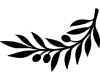
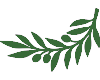
added color to branches and links - swapped gallery and villa oliva main info

Changed region(s): [[0.0, 0.1, 1.0, 0.9]]

diff --git a/index.html b/index.html
@@ -6,10 +6,11 @@
     <meta name="viewport" content="width=device-width, initial-scale=1.0">
     <link rel="stylesheet" href="https://maxcdn.bootstrapcdn.com/bootstrap/4.0.0/css/bootstrap.min.css"
         integrity="sha384-Gn5384xqQ1aoWXA+058RXPxPg6fy4IWvTNh0E263XmFcJlSAwiGgFAW/dAiS6JXm" crossorigin="anonymous">
-    <link rel="stylesheet" href="style.css">
+
     <link rel="stylesheet" href="https://cdnjs.cloudflare.com/ajax/libs/font-awesome/5.15.1/css/all.min.css"
         integrity="sha512-+4zCK9k+qNFUR5X+cKL9EIR+ZOhtIloNl9GIKS57V1MyNsYpYcUrUeQc9vNfzsWfV28IaLL3i96P9sdNyeRssA=="
         crossorigin="anonymous" />
+    <link rel="stylesheet" href="style.css">
     <title>Villa Oliva</title>
 </head>
 
@@ -29,7 +30,7 @@
     <!--Navigation bar containing logo and nav links. The bar is sticky and will be fixed to top when scrolling -->
 
     <nav class="navbar sticky-top navbar-expand-md navbar-light bg-light">
-        <a class="navbar-brand" href="#"><img src="assets/logo/villaoliva_logo_small.png" id="logo-image"
+        <a class="navbar-brand" href="#villa_oliva"><img src="assets/logo/villaoliva_logo_small.png" id="logo-image"
                 alt="villa oliva logo"></a>
         <button class="navbar-toggler" type="button" data-toggle="collapse" data-target="#navbartoggler">
             <span class="navbar-toggler-icon"></span>
@@ -37,7 +38,7 @@
 
         <div class="collapse navbar-collapse" id="navbartoggler">
             <ul class="navbar-nav ml-auto">
-                <li class="nav-item"><a class="nav-link" href="#villa_oliva">Villa Oliva</a></li>
+                <li class="nav-item"><a class="nav-link" href="#gallery">Gallery</a></li>
                 <li class="nav-item"><a class="nav-link" href="#amenities">Amenities</a></li>
                 <li class="nav-item"><a class="nav-link" href="#location">Location</a></li>
                 <li class="nav-item"><a class="nav-link" href="#book_now">Book Now!</a></li>
@@ -46,43 +47,6 @@
         </div>
     </nav>
 
-
-    <!-- GALLERY    - Gallery section containing carousel of images with an option to open modal to full gallery -->
-
-    <section class="container">
-        <h1><span class="h1-left">
-                <img src="assets/img/olive-branch-left.png" alt="">
-            </span>Gallery<span class="h1-right">
-                <img src="assets/img/olive-branch-right.png" alt="">
-            </span></h1>
-        <hr>
-
-
-        <!-- Carousel containing images of Villa Oliva -->
-        <div class="carousel-container">
-            <div id="gallerycontrols" class="carousel slide" data-ride="carousel" data-interval="5000">
-                <div class="carousel-inner">
-                    <div class="carousel-item active">
-                        <img class="d-block w-100" src="assets/img/vo_iron_gate.jpg" alt="First slide">
-                    </div>
-                    <div class="carousel-item">
-                        <img class="d-block w-100" src="assets/img/vo_terrace_downstairs.jpg" alt="Second slide">
-                    </div>
-                    <div class="carousel-item">
-                        <img class="d-block w-100" src="assets/img/vo_living_room1.jpg" alt="Third slide">
-                    </div>
-                </div>
-                <a class="carousel-control-prev" href="#gallerycontrols" role="button" data-slide="prev">
-                    <span class="carousel-control-prev-icon" aria-hidden="true"></span>
-                    <span class="sr-only">Previous</span>
-                </a>
-                <a class="carousel-control-next" href="#gallerycontrols" role="button" data-slide="next">
-                    <span class="carousel-control-next-icon" aria-hidden="true"></span>
-                    <span class="sr-only">Next</span>
-                </a>
-            </div>
-        </div>
-    </section>
 
     <!-- VILLA OLIVA    - Information about Villa Oliva / About the house / history / house rules / etc -->
 
@@ -192,6 +156,46 @@
         </div>
         </div>
     </section>
+
+
+
+    <!-- GALLERY    - Gallery section containing carousel of images with an option to open modal to full gallery -->
+
+    <section class="container" id="gallery">
+        <h1><span class="h1-left">
+                <img src="assets/img/olive-branch-left.png" alt="">
+            </span>Gallery<span class="h1-right">
+                <img src="assets/img/olive-branch-right.png" alt="">
+            </span></h1>
+        <hr>
+
+
+        <!-- Carousel containing images of Villa Oliva -->
+        <div class="carousel-container">
+            <div id="gallerycontrols" class="carousel slide" data-ride="carousel" data-interval="5000">
+                <div class="carousel-inner">
+                    <div class="carousel-item active">
+                        <img class="d-block w-100" src="assets/img/vo_iron_gate.jpg" alt="First slide">
+                    </div>
+                    <div class="carousel-item">
+                        <img class="d-block w-100" src="assets/img/vo_terrace_downstairs.jpg" alt="Second slide">
+                    </div>
+                    <div class="carousel-item">
+                        <img class="d-block w-100" src="assets/img/vo_living_room1.jpg" alt="Third slide">
+                    </div>
+                </div>
+                <a class="carousel-control-prev" href="#gallerycontrols" role="button" data-slide="prev">
+                    <span class="carousel-control-prev-icon" aria-hidden="true"></span>
+                    <span class="sr-only">Previous</span>
+                </a>
+                <a class="carousel-control-next" href="#gallerycontrols" role="button" data-slide="next">
+                    <span class="carousel-control-next-icon" aria-hidden="true"></span>
+                    <span class="sr-only">Next</span>
+                </a>
+            </div>
+        </div>
+    </section>
+
 
     <!-- AMENITIES   - Information about amenities available to guests -->
 
@@ -356,24 +360,23 @@
                 <hr>
             </div>
         </div>
-            <div class="row">
-                <div class="col-12 col-md-8 col-lg-6">
-                    <div class="google-map">
+        <div class="row">
+            <div class="col-12 col-md-8 col-lg-6">
+                <div class="google-map">
 
-                        <iframe
-                            src="https://calendar.google.com/calendar/embed?height=600&amp;wkst=2&amp;bgcolor=%23ffffff&amp;ctz=Europe%2FDublin&amp;src=N2N0dGNxNjd1cm9mYjlwNzV0ajVnamJpMXNAZ3JvdXAuY2FsZW5kYXIuZ29vZ2xlLmNvbQ&amp;src=ZW4uY3JvYXRpYW4jaG9saWRheUBncm91cC52LmNhbGVuZGFyLmdvb2dsZS5jb20&amp;color=%23EF6C00&amp;color=%230B8043&amp;showTitle=0&amp;showPrint=0&amp;showCalendars=0&amp;showTz=0"
-                            style="border:solid 1px #777" width="800" height="600" frameborder="0"
-                            scrolling="no"></iframe>
-                    </div>
-                </div>
-                <div class="col-12 col-md-4 col-lg-6">
-                    <div class="jumbotron">
-                        <h2>Check availability</h2>
-                        <p>If your dates are available then...</p>
-                        <button class="btn btn-lg btn-warning">Book Now!</button>
-                    </div>
+                    <iframe
+                        src="https://calendar.google.com/calendar/embed?height=600&amp;wkst=2&amp;bgcolor=%23ffffff&amp;ctz=Europe%2FDublin&amp;src=N2N0dGNxNjd1cm9mYjlwNzV0ajVnamJpMXNAZ3JvdXAuY2FsZW5kYXIuZ29vZ2xlLmNvbQ&amp;src=ZW4uY3JvYXRpYW4jaG9saWRheUBncm91cC52LmNhbGVuZGFyLmdvb2dsZS5jb20&amp;color=%23EF6C00&amp;color=%230B8043&amp;showTitle=0&amp;showPrint=0&amp;showCalendars=0&amp;showTz=0"
+                        style="border:solid 1px #777" width="800" height="600" frameborder="0" scrolling="no"></iframe>
                 </div>
             </div>
+            <div class="col-12 col-md-4 col-lg-6">
+                <div class="jumbotron">
+                    <h2>Check availability</h2>
+                    <p>If your dates are available then...</p>
+                    <button class="btn btn-lg btn-warning">Book Now!</button>
+                </div>
+            </div>
+        </div>
         </div>
     </section>
 

diff --git a/style.css b/style.css
@@ -45,7 +45,7 @@ p {
 .hero-image {
     margin: 0;
     padding: 0;
-    height: 30vh;
+    height: 55vh;
     background-image: url("assets/img/hero-image_c.jpg");
     background-position: center;
     background-repeat: no-repeat;
@@ -76,6 +76,10 @@ p {
     text-decoration: underline;
 }
 
+.navbar-light .navbar-nav .nav-link {
+    color: #386A38;
+    font-weight: bold;
+}
 
 /*-------------- MODALS -------- */
 
@@ -207,6 +211,18 @@ footer {
     .location-links ul li {
         margin: 0 5px 10px 0;
     }
+
+    .hero-image {
+        margin: 0;
+        padding: 0;
+        height: 30vh;
+        background-image: url("assets/img/hero-image_c.jpg");
+        background-position: center;
+        background-repeat: no-repeat;
+        background-size: cover;
+        position: relative;
+    }
+
     }
 
 @media (max-width: 460px){
